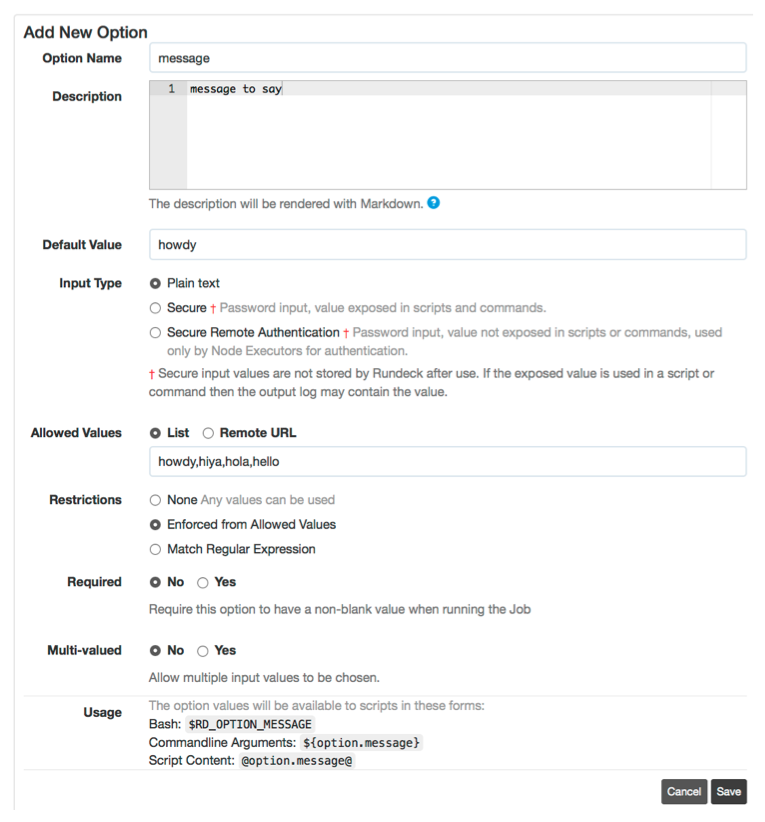
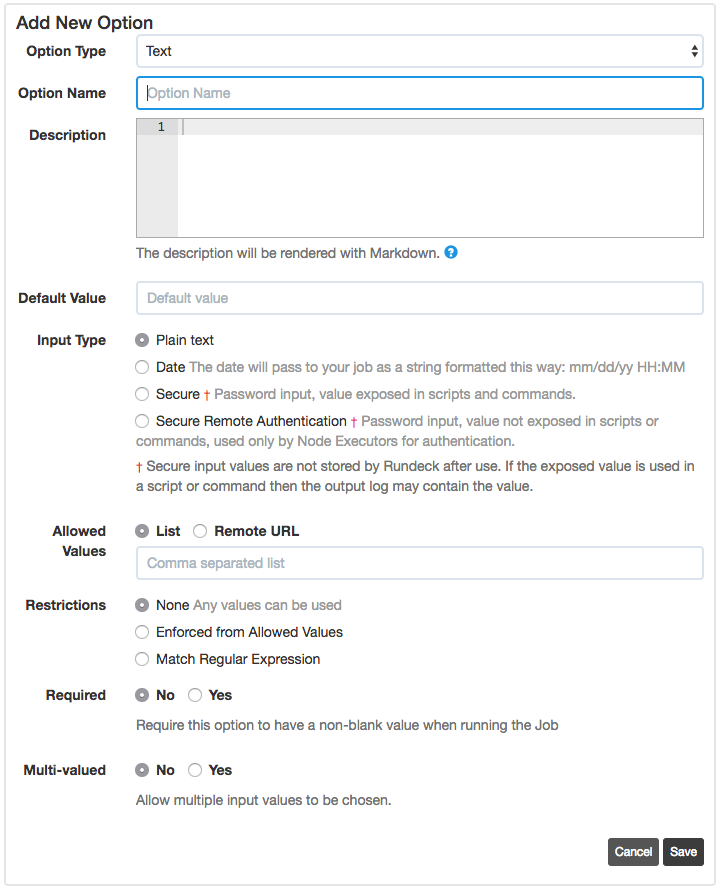
Update documentation for #135 #2351

diff --git a/en/manual/04-jobs.md b/en/manual/04-jobs.md
@@ -727,8 +727,12 @@ loaded to the Rundeck server. See [job-xml] and [job-yaml] and
 
 ## Defining an option
 
+**Text Options**
+
 New options can be defined by pressing the "Add an option" link while
-existing ones can be changed by pressing their "edit" link.
+existing ones can be changed by pressing their "edit" link. 
+
+Choose "Text" from the Option Type:
 
 ![Option edit form](../figures/fig0502.png)
 
@@ -780,15 +784,52 @@ Requirement
      choose "Yes" to indicate that a blank value is not allowed.  
 
      If a Default Value is set, then it will be used when no value is provided, unless a blank value is allowed and is explicitly specified.
-     
+
+
+![Option Multivalued Form](../figures/fig-option-multival.png)
+
 Multi-valued
 
-:    Defines if the user input can consist of multiple values. Choosing "No" states that only a single value can chosen as input. Choosing "Yes" states that the user may select multiple input values from the Allowed values and/or enter multiple values of their own.  The delimiter string will be used to separate the multiple values when the Job is run.
+:    Defines if the user input can consist of multiple values. Choosing "No" states that only a single value can chosen as input. Choosing "Yes" states that the user may select multiple input values from the Allowed values and/or enter multiple values of their own.  
+
+Delimiter
+
+:    The delimiter string will be used to separate the multiple values when the Job is run.
+
+Select All Values by Default
+
+:    If checked, and no default value(s) are specified, all of the remote or local values will be selected by default.
 
 Once satisfied with the option definition, press the "Save" button to
 add it to the Job definition. Pressing the "Cancel" button will
 dismiss the changes and close the form.
 
+Usage (see below)
+
+![Option Usage](../figures/fig-option-usage.png)
+
+### File Option Type
+
+Choose "File" from the Option Type:
+
+![File Option Edit Form](../figures/fig-newoption-file.png)
+
+The Option Name and Description can be entered.
+
+Required
+
+:    Choose whether to require the option have a value.
+
+File option usage:
+
+
+The `option.NAME` variable will contain a unique ID identifying the uploaded file.
+
+`file.NAME` will be the local file path.
+
+`file.NAME.filename` will be the original file name (if available).
+
+`file.NAME.sha` will be the SHA256 hash of the file.
 
 ## Script usage
 
